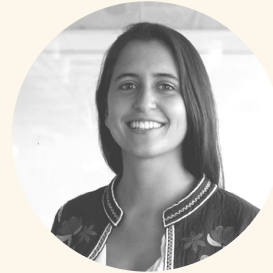
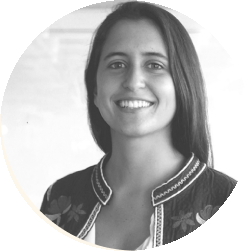
Center team portraits in their cards and recrop the headshots.
The circular crops were off-center in the files, and the grid was not forcing the photos to the middle of each cell.

diff --git a/src/pages/About.jsx b/src/pages/About.jsx
@@ -68,14 +68,14 @@ export default function About() {
             </h2>
           </ScrollReveal>
 
-          <div className="grid md:grid-cols-3 gap-10">
+          <div className="grid md:grid-cols-3 gap-10 justify-items-center">
             {team.map((member, i) => (
-              <ScrollReveal key={member.name} delay={i * 0.1}>
+              <ScrollReveal key={member.name} delay={i * 0.1} className="w-full flex justify-center">
                 <div className="flex flex-col items-center text-center">
                   <img
-                    src={member.photo}
+                    src={`${member.photo}?v=3`}
                     alt={member.name}
-                    className="w-44 h-44 md:w-52 md:h-52 rounded-full object-cover grayscale mb-5"
+                    className="block w-44 h-44 md:w-52 md:h-52 rounded-full object-cover object-center mb-5"
                   />
                   <p className="font-flourish font-bold text-lg md:text-xl text-lavender">{member.name}</p>
                   <p className="font-sans text-sm text-lavender/80 mt-1">{member.role}</p>
